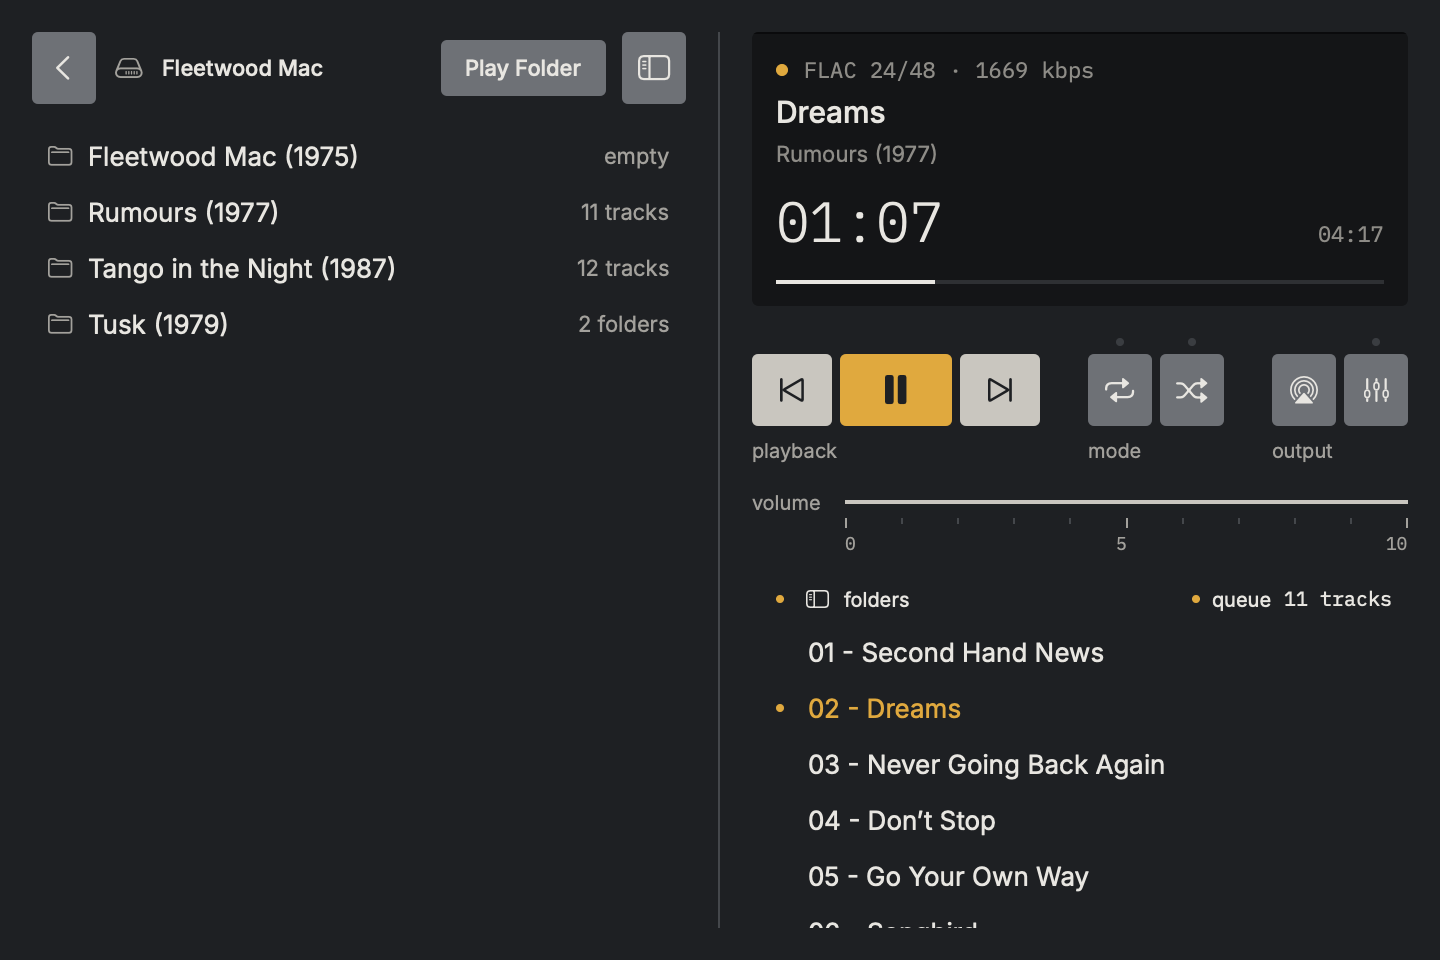
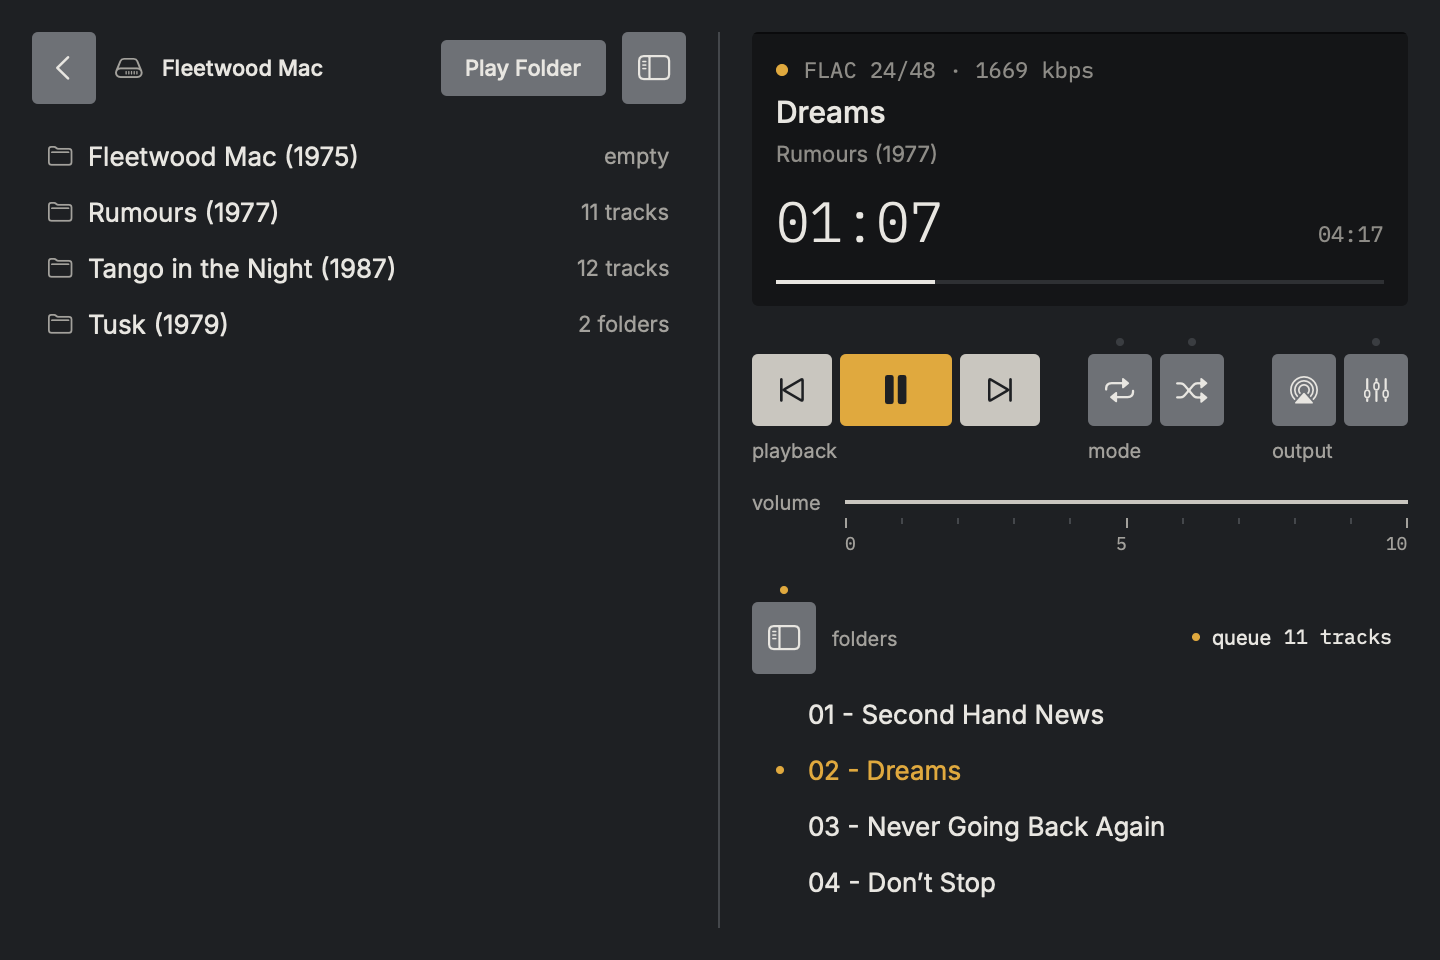
Tecla das pastas no cabeçalho da fila
A legenda "pastas" passa a tecla de modo com o mesmo ícone da tecla
que fecha a gaveta, com LED aceso quando está aberta. Abrir e fechar
usam a mesma tecla. Capturas do README atualizadas.

diff --git a/Sources/UI/QueueList.swift b/Sources/UI/QueueList.swift
@@ -97,7 +97,7 @@ struct QueueList: View {
 
     /// Primeiro arranque: as duas formas de trazer música, cada uma com o que é e o atalho.
     private var firstRun: some View {
-        VStack(alignment: .leading, spacing: Space.s3) {
+        VStack(alignment: .leading, spacing: Space.s2) {
             Text("começar").legend()
             source("Adicionar pasta", detail: "Música no Mac ou num disco de rede", shortcut: "⌘O") {
                 model.addFolder()
@@ -107,7 +107,7 @@ struct QueueList: View {
             }
         }
         .padding(.horizontal, Space.s2)
-        .padding(.top, Space.s3)
+        .padding(.top, Space.s1)
         .frame(maxWidth: .infinity, maxHeight: .infinity, alignment: .topLeading)
     }
 
@@ -160,12 +160,19 @@ struct QueueHeader: View {
 
     var body: some View {
         let player = model.player
-        HStack(spacing: Space.s2) {
-            LegendToggle(
-                isOn: model.windowMode == .browser, symbol: "sidebar.left", label: "pastas",
-                help: model.windowMode == .browser
-                    ? String(localized: "Esconder pastas ⌘B") : String(localized: "Mostrar pastas ⌘B")
-            ) { model.toggleBrowser() }
+        let isOpen = model.windowMode == .browser
+        HStack(alignment: .bottom, spacing: Space.s2) {
+            // A mesma tecla que fecha a gaveta no cabeçalho do navegador; o LED diz se está aberta.
+            HStack(alignment: .bottom, spacing: Space.s2) {
+                Button { model.toggleBrowser() } label: { Image(systemName: "sidebar.left") }
+                    .buttonStyle(.key(.mode))
+                    .keyFocus()
+                    .help(isOpen ? String(localized: "Esconder pastas ⌘B") : String(localized: "Mostrar pastas ⌘B"))
+                    .keyLED(isOpen)
+                // Ao meio da face da tecla.
+                Text("pastas").legend()
+                    .padding(.bottom, Space.s3)
+            }
             Spacer()
             LegendToggle(
                 isOn: model.windowMode != .compact, label: "fila",
@@ -173,8 +180,9 @@ struct QueueHeader: View {
                 help: model.windowMode == .compact
                     ? String(localized: "Mostrar fila ⌘1") : String(localized: "Esconder fila ⌘3")
             ) { model.toggleQueue() }
+            .padding(.bottom, Space.s3)
         }
-        .padding(.horizontal, Space.s2)
+        .padding(.trailing, Space.s2)
     }
 
     /// "11 faixas · 39:18"; sem o total enquanto faltarem durações.

diff --git a/docs/design-system/components/JanelaPlayer.md b/docs/design-system/components/JanelaPlayer.md
@@ -12,12 +12,11 @@ Tudo assenta no chassis `surface-0`, margem `space-4`. Não há cartões.
 ## Compacto (⌘3)
 Os passos 1 a 3 e o cabeçalho da fila, sem as linhas. A janela fica com a altura do conteúdo. O cabeçalho fica para quem não conhece a app ver por onde se volta.
 
-## Pista das pastas
-Quem não conhece a app tem de ver que há uma gaveta. No cabeçalho da fila, à esquerda (o lado de onde a gaveta abre): LED + `sidebar.left` 10px + "pastas" em `legend`.
-- `ink-muted` em repouso, `ink` no hover e com a gaveta aberta. LED aceso com a gaveta aberta.
+## Tecla das pastas
+Quem não conhece a app tem de ver que há uma gaveta, e como a abre e fecha. No cabeçalho da fila, à esquerda (o lado de onde a gaveta abre): uma tecla de modo com `sidebar.left`, LED por cima (aceso com a gaveta aberta) e a legenda "pastas" ao lado.
 - Clicar abre ou fecha a gaveta, como ⌘B. Tooltip "Mostrar pastas ⌘B" / "Esconder pastas ⌘B".
-- Está sempre lá, mesmo com a fila vazia.
-- Para fechar, a gaveta tem também, no canto direito do cabeçalho (junto à divisória), uma tecla de modo com o mesmo ícone `sidebar.left`. Tooltip "Esconder pastas ⌘B".
+- Está sempre lá, mesmo com a fila vazia e no compacto.
+- Com a gaveta aberta, o cabeçalho do navegador tem a mesma tecla no canto direito, junto à divisória, para a fechar.
 
 ## Pista da fila
 À direita do mesmo cabeçalho: LED + "fila" em `legend` + total em mono 10px. LED aceso com a fila à vista. Clicar alterna entre o player e o compacto (⌘1 / ⌘3).
